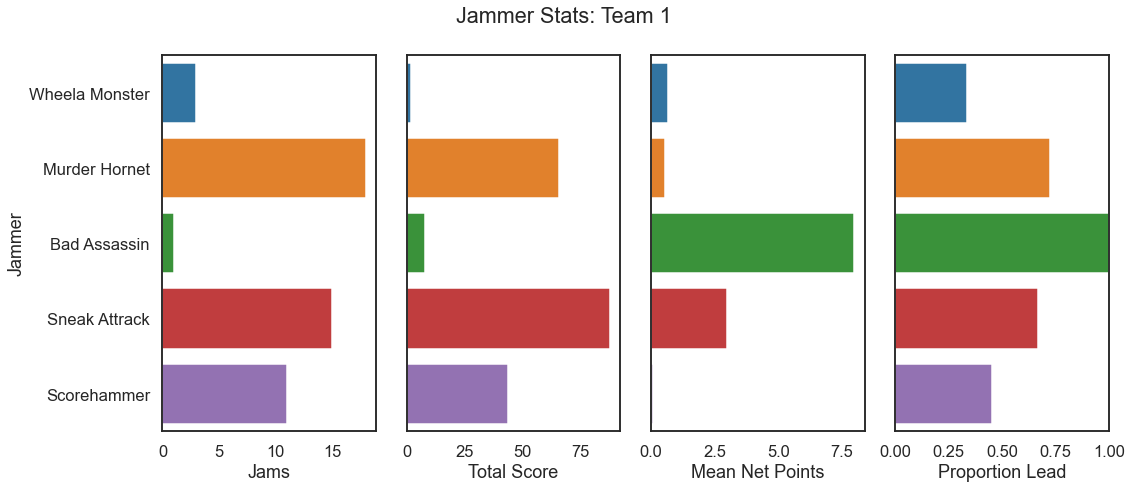
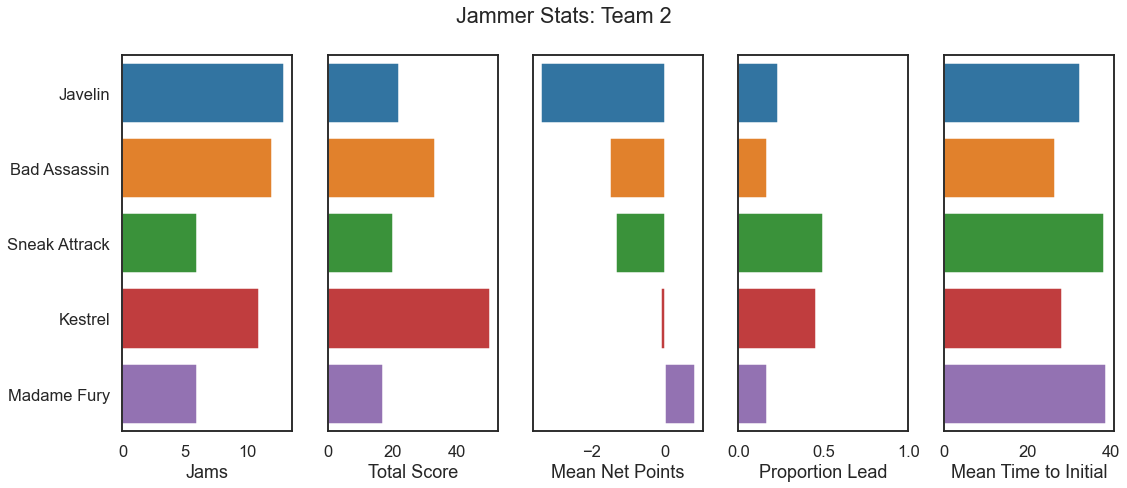
added mean time to initial to jammer plots

diff --git a/src/jamstats/data/game_data.py b/src/jamstats/data/game_data.py
@@ -110,17 +110,21 @@ class DerbyGame:
         jamscore_col = f"JamScore_{team_number}"
         netpoints_col = f"net_points_{team_number}"
         lead_col = f"Lead_{team_number}"
+        time_to_initial_col = f"first_scoring_pass_durations_{team_number}"
 
         pdf_jammer_data = self.pdf_jams_data.groupby(jammer_col).agg({
             jamscore_col: "sum",
             netpoints_col: "mean",
             'Number': "count",
-            lead_col: "mean"}).reset_index()
+            lead_col: "mean",
+            time_to_initial_col: "mean"}).reset_index()
+
         pdf_jammer_data = pdf_jammer_data.rename(columns={
             jammer_col: "Jammer",
             jamscore_col: "Total Score",
             netpoints_col: "Mean Net Points",
             lead_col: "Proportion Lead",
-            "Number": "Jams"
+            "Number": "Jams",
+            time_to_initial_col: "Mean Time to Initial",
         })
         return pdf_jammer_data

diff --git a/src/jamstats/plots/skaterplots.py b/src/jamstats/plots/skaterplots.py
@@ -42,10 +42,11 @@ def plot_jammer_stats(derby_game: DerbyGame, team_number: int,
         name_dict = build_anonymizer_map(set(pdf_jammer_data.Jammer))
         pdf_jammer_data["Jammer"] = [name_dict[jammer] for jammer in pdf_jammer_data.Jammer]
 
-    f, (ax0, ax1, ax2, ax3) = plt.subplots(1, 4)
+    f, (ax0, ax1, ax2, ax3, ax4) = plt.subplots(1, 5)
 
     ax = ax0
     sns.barplot(y="Jammer", x="Jams", data=pdf_jammer_data, ax=ax)
+    ax.set_ylabel("")
 
     ax = ax1
     sns.barplot(y="Jammer", x="Total Score", data=pdf_jammer_data, ax=ax)
@@ -60,6 +61,11 @@ def plot_jammer_stats(derby_game: DerbyGame, team_number: int,
     ax = ax3
     sns.barplot(y="Jammer", x="Proportion Lead", data=pdf_jammer_data, ax=ax)
     ax.set_xlim(0,1)
+    ax.set_yticks([])
+    ax.set_ylabel("")
+
+    ax = ax4
+    sns.barplot(y="Jammer", x="Mean Time to Initial", data=pdf_jammer_data, ax=ax)
     ax.set_yticks([])
     ax.set_ylabel("")
 
